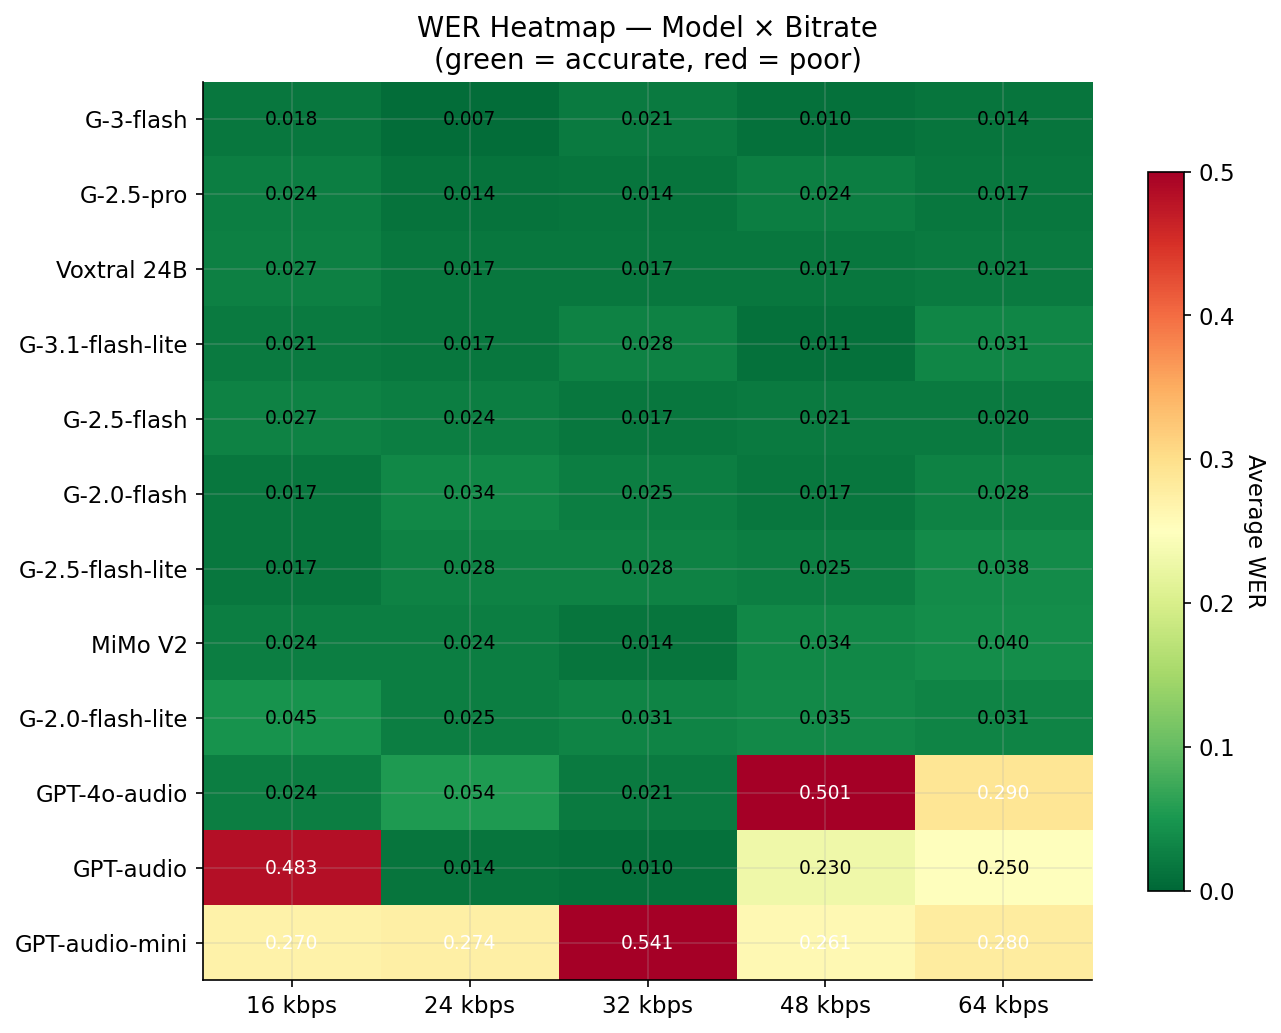
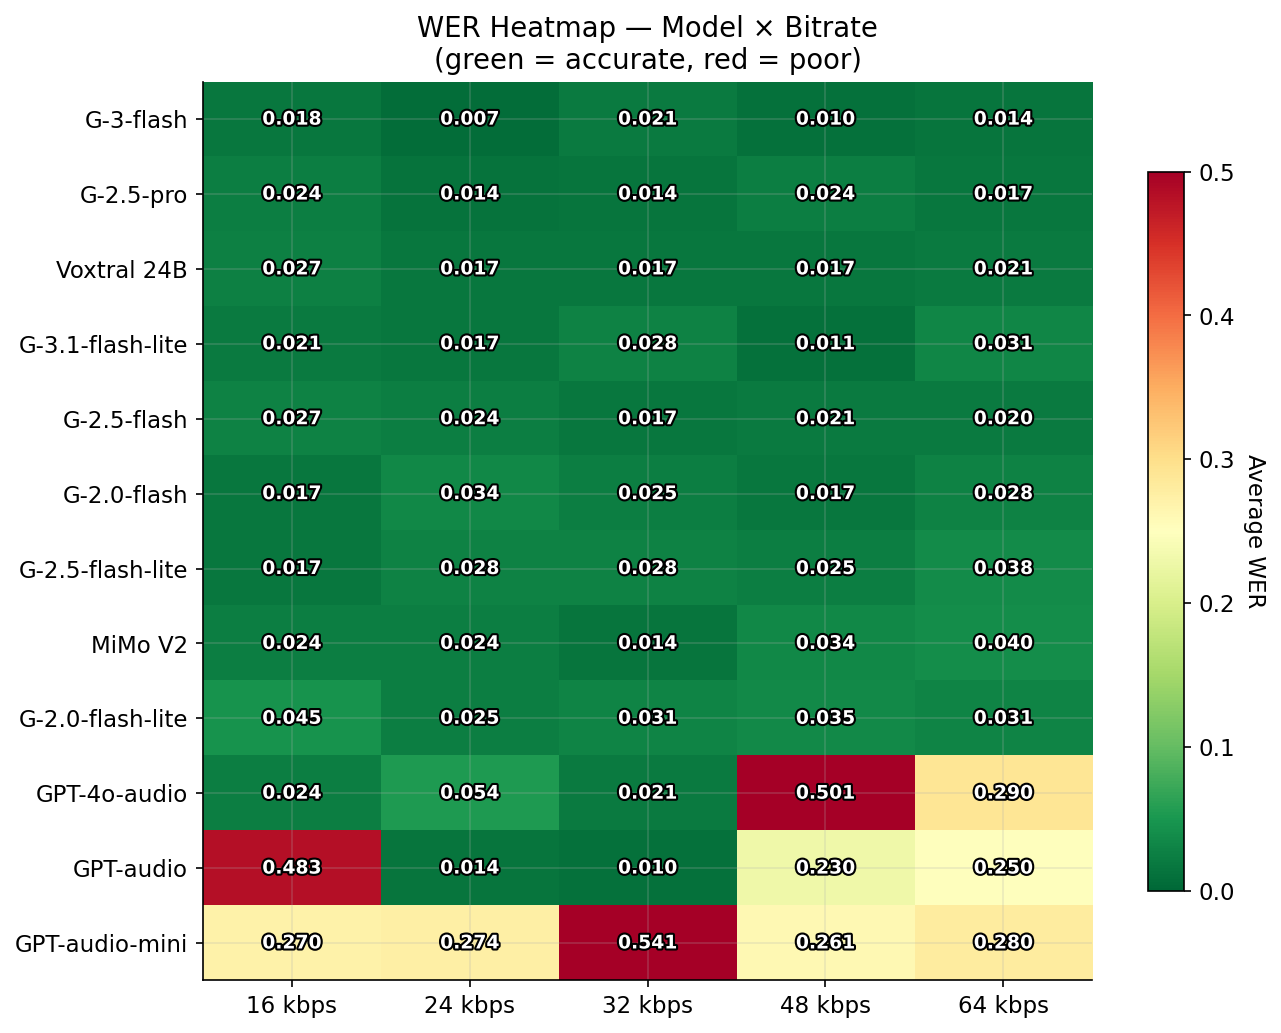
heatmap: white text with black stroke for universal legibility

diff --git a/scripts/plot_results.py b/scripts/plot_results.py
@@ -13,6 +13,7 @@ Usage:
 from pathlib import Path
 
 import matplotlib.pyplot as plt
+import matplotlib.patheffects as path_effects
 import numpy as np
 import pandas as pd
 
@@ -131,9 +132,12 @@ def plot_wer_heatmap(df: pd.DataFrame) -> None:
     for i in range(len(pivot.index)):
         for j in range(len(pivot.columns)):
             v = pivot.values[i, j]
-            color = "white" if v > 0.25 else "black"
-            ax.text(j, i, f"{v:.3f}", ha="center", va="center",
-                    color=color, fontsize=9)
+            txt = ax.text(j, i, f"{v:.3f}", ha="center", va="center",
+                          color="white", fontsize=9, fontweight="bold")
+            txt.set_path_effects([
+                path_effects.Stroke(linewidth=2, foreground="black"),
+                path_effects.Normal(),
+            ])
     cbar = fig.colorbar(im, ax=ax, shrink=0.8)
     cbar.set_label("Average WER", rotation=270, labelpad=15)
     ax.set_title("WER Heatmap — Model × Bitrate\n(green = accurate, red = poor)")
